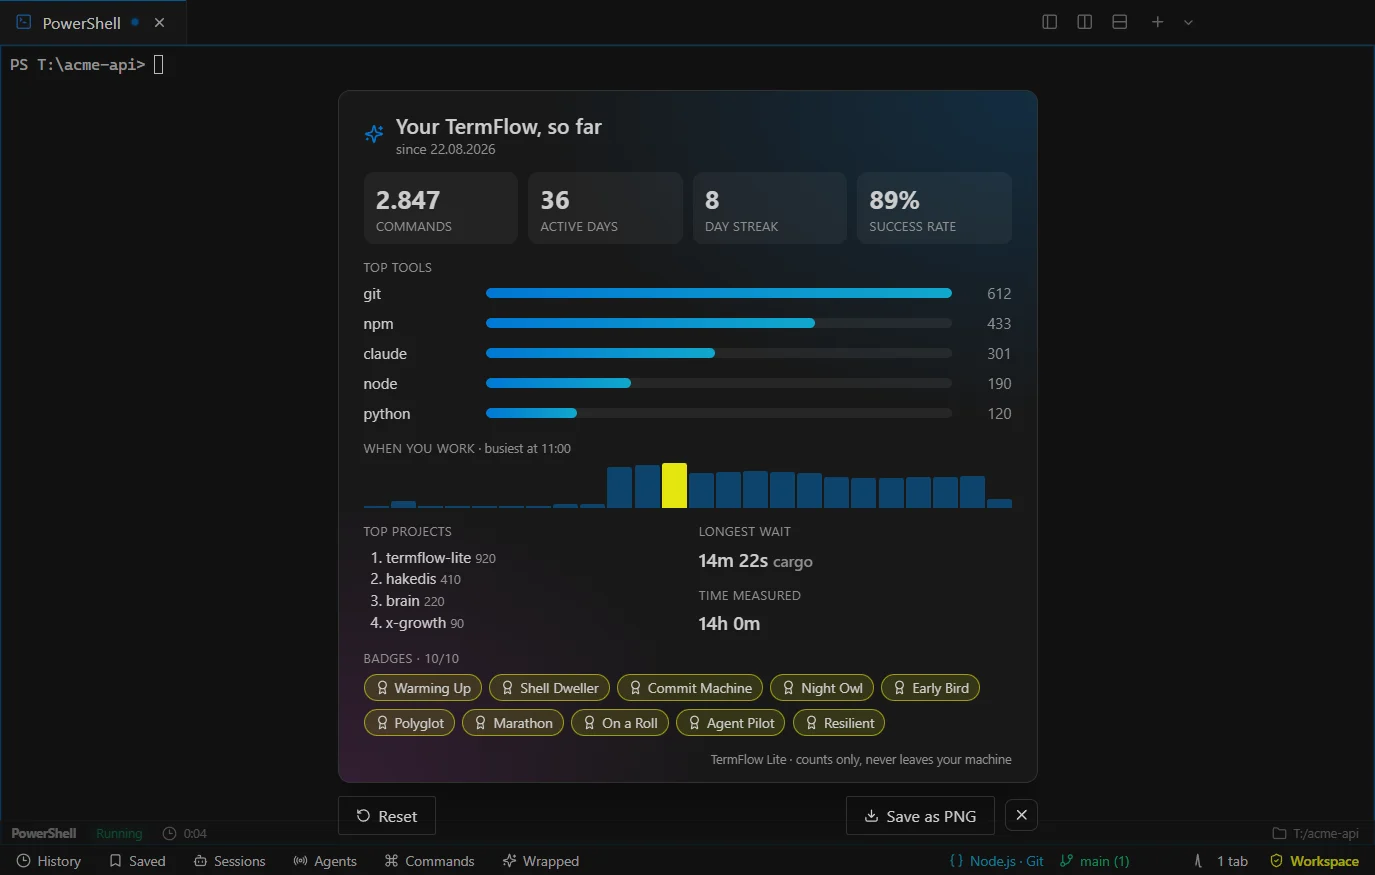
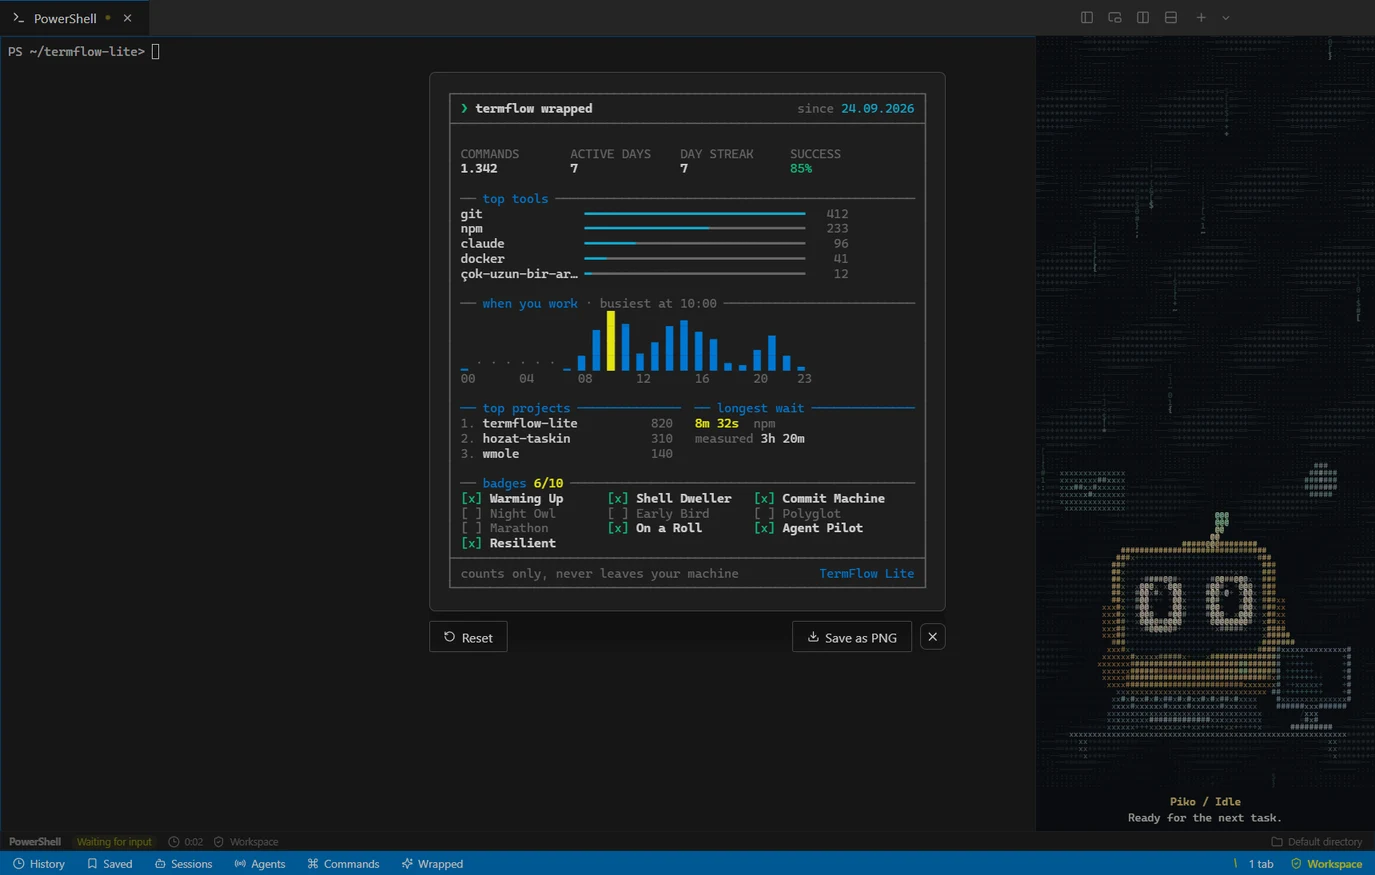
Sitedeki Wrapped gorselini ve metnini yeni tasarima guncelle

diff --git a/website/index.html b/website/index.html
@@ -40,10 +40,10 @@
           <p class="lede">TermFlow Lite runs PowerShell, Git Bash, WSL and coding agents like Claude&nbsp;Code and Codex in tabs and splits. Every command gets a mark: passed, failed or still running.</p>
           <div class="hero-cta">
             <div class="cta-row">
-              <a class="btn btn-primary" data-dl="exe" href="https://github.com/palamut62/termflow-lite/releases/download/v1.13.0/TermFlow-Lite-1.13.0-x64.exe">Download for Windows</a>
+              <a class="btn btn-primary" data-dl="exe" href="https://github.com/palamut62/termflow-lite/releases/download/v1.13.1/TermFlow-Lite-1.13.1-x64.exe">Download for Windows</a>
               <a class="btn btn-quiet" href="#download">Linux builds</a>
             </div>
-            <p class="meta"><span data-version>Version 1.13.0</span>. Free and open source.</p>
+            <p class="meta"><span data-version>Version 1.13.1</span>. Free and open source.</p>
           </div>
         </div>
       </div>
@@ -126,7 +126,7 @@
 
     <section class="proof" aria-label="Project facts">
       <div><strong data-stars-big>Open source</strong><span>on GitHub, MIT licensed</span></div>
-      <div><strong data-version-short>1.13.0</strong><span data-release-date>latest release</span></div>
+      <div><strong data-version-short>1.13.1</strong><span data-release-date>latest release</span></div>
       <div><strong>15 themes</strong><span>plus your own palette</span></div>
       <div><strong>0 accounts</strong><span>no sign-in, settings stay local</span></div>
     </section>
@@ -228,10 +228,10 @@
       <article class="feature">
         <div class="feature-copy">
           <h2>See your year in the terminal</h2>
-          <p>Wrapped counts your commands, top tools, busiest hour and streaks, and hands out badges like Night Owl and Commit Machine. Save it as an image to share.</p>
+          <p>Wrapped counts your commands, top tools, busiest hour and streaks, and hands out badges like Night Owl and Commit Machine. It is drawn like terminal output, in your terminal font and theme colors. Save it as an image to share.</p>
           <p class="note">Wrapped stores counters and tool names only, never arguments or output, and nothing leaves your machine.</p>
         </div>
-        <figure class="shot"><img src="/assets/wrapped.webp" alt="TermFlow Wrapped card with command counts, top tools, an hourly chart and badges" width="1375" height="875" loading="lazy" /></figure>
+        <figure class="shot"><img src="/assets/wrapped.webp" alt="TermFlow Wrapped drawn as ASCII terminal output: command counts, top tools as bars, an hourly block chart and a badge checklist" width="1375" height="875" loading="lazy" /></figure>
       </article>
     </section>
 
@@ -255,35 +255,35 @@
     <section class="download" id="download">
       <div class="download-head">
         <h2>Get TermFlow Lite</h2>
-        <p>Free and open source. <span data-version-sentence>Version 1.13.0</span>.</p>
+        <p>Free and open source. <span data-version-sentence>Version 1.13.1</span>.</p>
       </div>
       <div class="dl-grid">
-        <a class="dl dl-main" data-dl="exe" href="https://github.com/palamut62/termflow-lite/releases/download/v1.13.0/TermFlow-Lite-1.13.0-x64.exe">
+        <a class="dl dl-main" data-dl="exe" href="https://github.com/palamut62/termflow-lite/releases/download/v1.13.1/TermFlow-Lite-1.13.1-x64.exe">
           <span class="dl-os">Windows installer</span>
-          <span class="dl-file" data-file="exe">TermFlow-Lite-1.13.0-x64.exe</span>
+          <span class="dl-file" data-file="exe">TermFlow-Lite-1.13.1-x64.exe</span>
           <span class="dl-hint">Windows 10 and 11, 64-bit</span>
         </a>
-        <a class="dl" data-dl="zip" href="https://github.com/palamut62/termflow-lite/releases/download/v1.13.0/TermFlow-Lite-1.13.0-x64.zip">
+        <a class="dl" data-dl="zip" href="https://github.com/palamut62/termflow-lite/releases/download/v1.13.1/TermFlow-Lite-1.13.1-x64.zip">
           <span class="dl-os">Windows portable</span>
-          <span class="dl-file" data-file="zip">TermFlow-Lite-1.13.0-x64.zip</span>
+          <span class="dl-file" data-file="zip">TermFlow-Lite-1.13.1-x64.zip</span>
           <span class="dl-hint">No installer, unzip and run</span>
         </a>
-        <a class="dl" data-dl="appimage" href="https://github.com/palamut62/termflow-lite/releases/download/v1.13.0/TermFlow-Lite-1.13.0-x86_64.AppImage">
+        <a class="dl" data-dl="appimage" href="https://github.com/palamut62/termflow-lite/releases/download/v1.13.1/TermFlow-Lite-1.13.1-x86_64.AppImage">
           <span class="dl-os">Linux AppImage</span>
-          <span class="dl-file" data-file="appimage">TermFlow-Lite-1.13.0-x86_64.AppImage</span>
+          <span class="dl-file" data-file="appimage">TermFlow-Lite-1.13.1-x86_64.AppImage</span>
           <span class="dl-hint">Most x64 distributions</span>
         </a>
-        <a class="dl" data-dl="deb" href="https://github.com/palamut62/termflow-lite/releases/download/v1.13.0/TermFlow-Lite-1.13.0-amd64.deb">
+        <a class="dl" data-dl="deb" href="https://github.com/palamut62/termflow-lite/releases/download/v1.13.1/TermFlow-Lite-1.13.1-amd64.deb">
           <span class="dl-os">Debian and Ubuntu</span>
-          <span class="dl-file" data-file="deb">TermFlow-Lite-1.13.0-amd64.deb</span>
+          <span class="dl-file" data-file="deb">TermFlow-Lite-1.13.1-amd64.deb</span>
           <span class="dl-hint">.deb package, x64</span>
         </a>
       </div>
       <div class="silent">
         <p>Installing on many machines? The Windows installer runs silently:</p>
-        <pre><code><span data-file="exe">TermFlow-Lite-1.13.0-x64.exe</span> /S</code></pre>
+        <pre><code><span data-file="exe">TermFlow-Lite-1.13.1-x64.exe</span> /S</code></pre>
       </div>
-      <p class="release-link"><a data-release-notes href="https://github.com/palamut62/termflow-lite/releases/tag/v1.13.0" target="_blank" rel="noopener noreferrer">Read what changed in this release</a></p>
+      <p class="release-link"><a data-release-notes href="https://github.com/palamut62/termflow-lite/releases/tag/v1.13.1" target="_blank" rel="noopener noreferrer">Read what changed in this release</a></p>
     </section>
   </main>
 

diff --git a/website/main.js b/website/main.js
@@ -6,7 +6,7 @@
   const reduceMotion = window.matchMedia('(prefers-reduced-motion: reduce)').matches
 
   /* ------------------------------------------------------------------ *
-   * Latest release and stars (falls back to the static 1.13.0 links)
+   * Latest release and stars (falls back to the static 1.13.1 links)
    * ------------------------------------------------------------------ */
   const ASSET_PATTERNS = {
     exe: /-x64\.exe$/,
